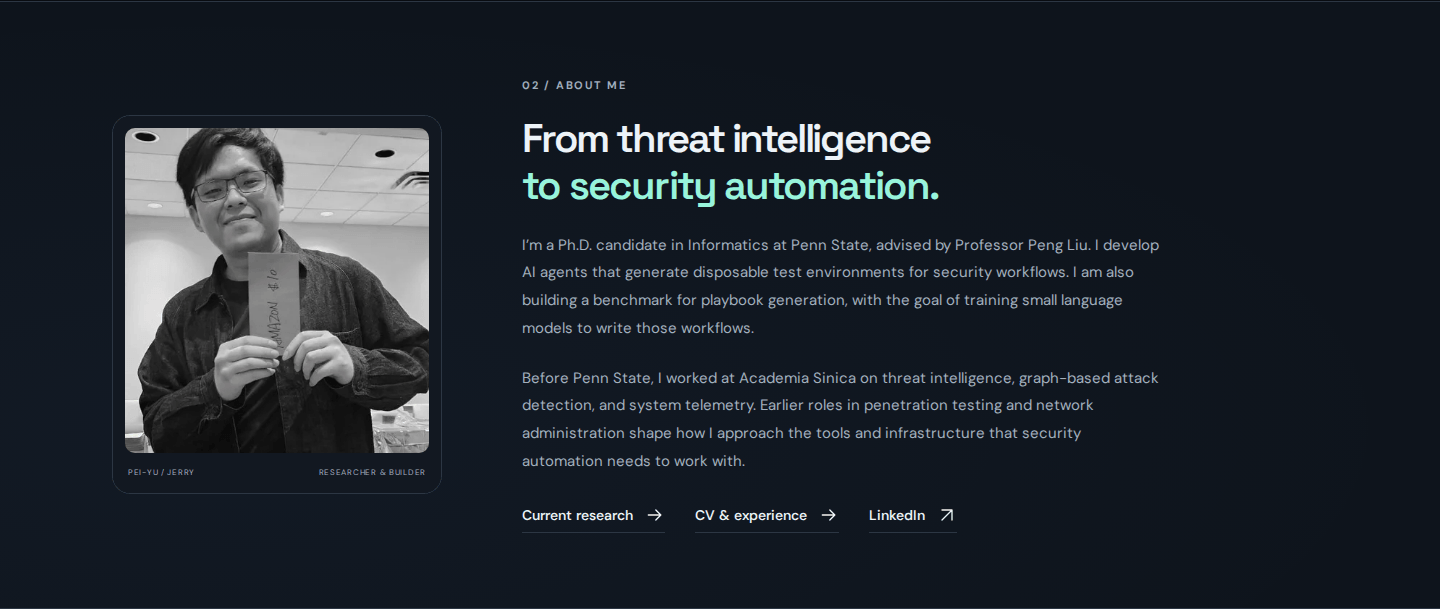
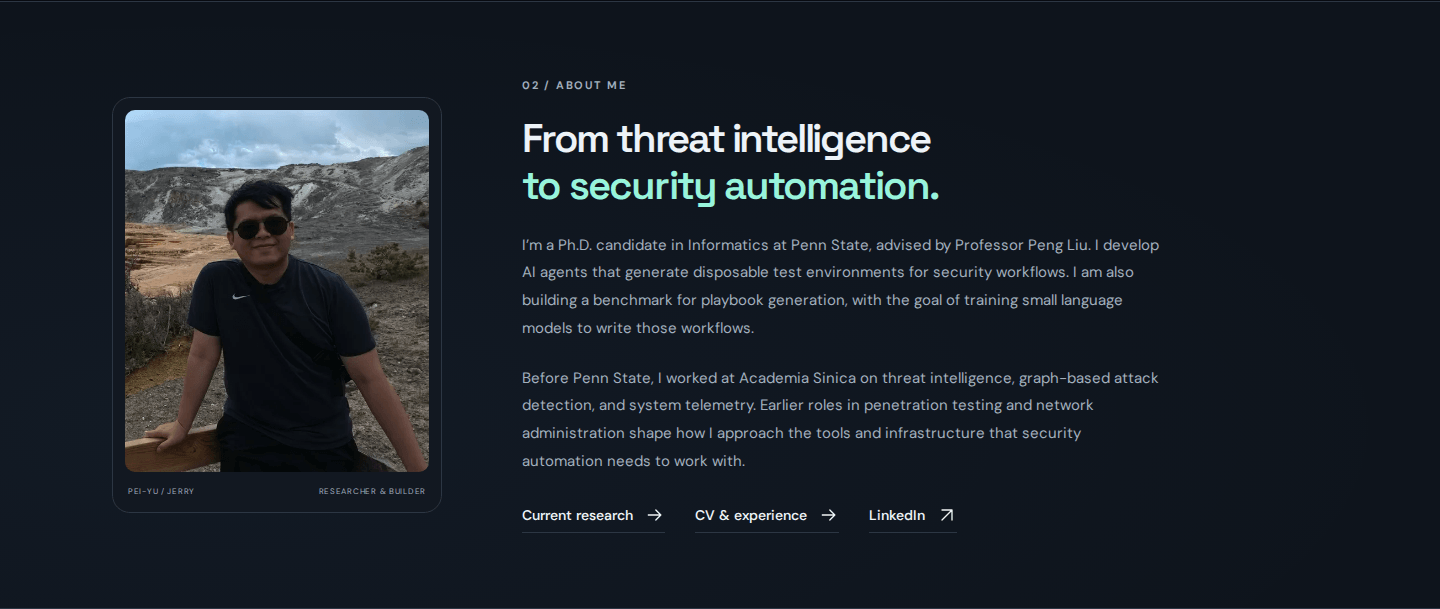
Use the new travel portrait with responsive framing

Changed region(s): [[0.0625, 0.156, 0.3125, 0.8112]]

diff --git a/site/src/styles/global.css b/site/src/styles/global.css
@@ -8,7 +8,7 @@
 /* Project illustrations */
 .project-art{height:220px;display:flex;align-items:center;justify-content:center;position:relative;overflow:hidden;border-bottom:1px solid var(--line);background-color:var(--art);background-image:radial-gradient(var(--line) .7px,transparent .7px);background-size:17px 17px}.art-caption{position:absolute;bottom:16px;left:22px;font-family:monospace;font-size:8px;letter-spacing:.2em;color:var(--muted)}.state-diagram{display:flex;align-items:center;gap:0}.mini-node{border:1px solid #52623e;background:var(--bg);font-family:monospace;font-size:9px;padding:15px 18px;letter-spacing:.12em}.mini-node span{font-family:'DM Sans Variable',sans-serif;display:block;font-size:12px;letter-spacing:0;color:var(--accent);margin-top:4px}.diagram-line{width:45px;height:1px;background:#52623e;position:relative}.diagram-line:after{content:'';width:5px;height:5px;border-top:1px solid #52623e;border-right:1px solid #52623e;position:absolute;right:0;top:-2px;transform:rotate(45deg)}.state-pair{display:flex;gap:12px;background:var(--bg);border:1px solid var(--line);padding:12px}.state-pair>span{color:var(--muted);font-size:9px;text-align:left;min-width:62px}.state-pair i{display:block;font-style:normal;font-family:monospace;font-size:10px;padding:5px 8px;margin-top:4px;background:var(--surface);color:var(--muted)}.state-pair>span:last-child i{color:var(--accent);border:1px solid color-mix(in srgb,var(--accent) 25%,transparent);padding:4px 7px}.art-workflow{background-color:#151e20}:root[data-theme=light] .art-workflow{background-color:#ddecef}.workflow-diagram{display:flex;align-items:center;gap:0;color:#a4ced6}.flow-dot{width:8px;height:8px;border-radius:50%;background:#82cbd7}.flow-line{height:1px;width:27px;background:#48606a}.flow-block{background:var(--bg);border:1px solid #48606a;padding:12px 20px;font-family:monospace;font-size:10px;border-radius:3px}.flow-diamond{width:52px;height:52px;transform:rotate(45deg);padding:0;display:grid;place-items:center;margin:10px}.flow-diamond span{transform:rotate(-45deg)}:root[data-theme=light] .workflow-diagram{color:#314f56}.art-regex{background-color:#201d16}:root[data-theme=light] .art-regex{background-color:#eeeadb}.regex-code{font-family:monospace;display:flex;flex-direction:column;gap:14px;color:#e1c990;font-size:26px}.regex-code .code-comment{font-size:10px;color:var(--muted)}.regex-code i{font-style:normal;color:var(--text)}.regex-code b{font-weight:400;color:#c9a475}.code-under{font-size:10px;color:var(--muted);letter-spacing:.015em}.code-under em{font-style:normal;margin:0 6px;color:#c9a475}:root[data-theme=light] .regex-code{color:#705824}.art-evaluation{background-color:#1c1925}:root[data-theme=light] .art-evaluation{background-color:#e9e2ef}.eval-diagram{display:flex;align-items:center;position:relative;height:120px;gap:150px}.eval-diagram>span{font-size:10px;font-family:monospace;color:var(--muted);position:relative;z-index:2}.eval-circle{position:absolute;border:1px solid #9e8dbc;width:116px;height:116px;border-radius:50%;top:0;background:repeating-linear-gradient(45deg,transparent,transparent 6px,#a78ac210 6px,#a78ac210 7px)}.circle-a{left:26px}.circle-b{right:26px;border-color:#72667e}
 /* About */
-.about-band{padding:75px 0;background:var(--surface-soft);border-block:1px solid var(--line)}.about-grid{display:grid;grid-template-columns:330px 1fr;gap:80px;align-items:center}.portrait-wrap{position:relative;background:var(--surface);border:1px solid var(--line);padding:12px}.portrait-wrap img{width:100%;height:325px;object-fit:cover;object-position:50% 38%}.portrait-caption{display:flex;justify-content:space-between;gap:8px;font-size:8px;letter-spacing:.09em;padding:13px 3px 2px;color:var(--muted)}.about-copy .eyebrow{color:var(--muted);margin-bottom:22px}.about-copy h2{font-size:40px;line-height:1.18}.about-copy p{font-size:15px;color:var(--muted);margin-top:22px;line-height:1.85;max-width:640px}.about-links{display:flex;gap:30px;margin-top:29px}
+.about-band{padding:75px 0;background:var(--surface-soft);border-block:1px solid var(--line)}.about-grid{display:grid;grid-template-columns:330px 1fr;gap:80px;align-items:center}.portrait-wrap{position:relative;background:var(--surface);border:1px solid var(--line);padding:12px}.portrait-frame{aspect-ratio:21/25;overflow:hidden}.portrait-wrap img{width:100%;height:100%;object-fit:cover;object-position:85% 100%;transform:scale(1.2);transform-origin:85% 100%}.portrait-caption{display:flex;justify-content:space-between;gap:8px;font-size:8px;letter-spacing:.09em;padding:13px 3px 2px;color:var(--muted)}.about-copy .eyebrow{color:var(--muted);margin-bottom:22px}.about-copy h2{font-size:40px;line-height:1.18}.about-copy p{font-size:15px;color:var(--muted);margin-top:22px;line-height:1.85;max-width:640px}.about-links{display:flex;gap:30px;margin-top:29px}
 /* Papers and experience */
 .publication{display:grid;grid-template-columns:80px 1fr;gap:24px;border-top:1px solid var(--line);padding:29px 0;scroll-margin-top:125px}.publication:last-child{border-bottom:1px solid var(--line)}.publication-year{font-family:'Space Grotesk Variable',sans-serif;font-size:15px;color:var(--muted);padding-top:1px}.publication-meta{display:flex;gap:14px;flex-wrap:wrap;align-items:center;color:var(--muted);font-size:10px;margin-bottom:10px;letter-spacing:.015em}.publication-type{border:1px solid var(--line);padding:1px 6px;border-radius:3px;font-size:8px;text-transform:uppercase;letter-spacing:.06em}.publication-type.preprint{color:var(--accent)}.publication h3{font-size:21px;letter-spacing:-.025em;line-height:1.45;font-weight:500}.publication h3 a{display:flex;justify-content:space-between;gap:24px}.publication h3 a:hover{color:var(--accent)}.publication h3 .arrow{margin-top:6px;width:18px;height:18px;color:var(--muted)}.authors{font-size:11px;color:var(--muted);margin-top:10px;line-height:1.7}.authors strong{color:var(--text);font-weight:500}.publication-summary{font-size:14px;color:var(--muted);margin-top:12px}.publication-body>.text-link{margin-top:14px}.experience-section{padding-top:8px}.experience-row{display:grid;grid-template-columns:160px 1fr auto;align-items:center;gap:24px;padding:26px 0;border-top:1px solid var(--line)}.experience-row:last-child{border-bottom:1px solid var(--line)}.experience-date,.experience-location{font-size:12px;color:var(--muted)}.experience-row h3{font-size:23px}.experience-row p{font-size:13px;color:var(--muted);margin-top:6px}
 /* Inner pages */
@@ -17,9 +17,9 @@
 .site-footer{padding-top:55px;padding-bottom:26px;border-top:1px solid var(--line)}.footer-top{display:flex;align-items:center;justify-content:space-between;gap:50px;padding-bottom:55px}.footer-top .eyebrow{color:var(--muted);font-size:9px;margin-bottom:20px}.footer-heading{display:block;position:relative;font-family:'Space Grotesk Variable',sans-serif;font-size:50px;letter-spacing:-.055em;line-height:1.08}.footer-heading .arrow{display:inline-block;width:36px;height:36px;margin-left:30px;color:var(--accent)}.footer-links{display:grid;grid-template-columns:1fr 1fr;gap:23px 42px}.footer-links a{display:flex;align-items:center;justify-content:space-between;gap:35px;font-size:12px}.footer-links a:hover{color:var(--accent)}.footer-links .arrow{width:13px;height:13px;color:var(--muted)}.footer-bottom{border-top:1px solid var(--line);padding-top:22px;display:flex;justify-content:space-between;gap:20px;font-size:9px;color:var(--muted)}.tiny-dot{display:inline-block;width:3px;height:3px;border-radius:50%;background:var(--muted);vertical-align:middle;margin:0 7px}
 /* Responsive and reduced-motion layouts */
 @media(min-width:1450px){.hero{min-height:760px}.hero h1{font-size:84px}}
-@media(max-width:1100px){.container{padding-inline:36px}.desktop-nav{gap:20px;margin-left:0}.header-actions{gap:15px}.hero{gap:10px;min-height:660px;padding-top:56px;padding-bottom:55px}.hero h1{font-size:65px}.hero-intro{font-size:15px}.hero-kicker{font-size:9px}.about-grid{grid-template-columns:280px 1fr;gap:45px}.about-copy h2{font-size:34px}.portrait-wrap img{height:300px}.project-card-content{padding:24px}.project-card h3{font-size:23px}.project-story{gap:45px}.cv-section{grid-template-columns:190px 1fr;gap:30px}}
-@media(max-width:800px){.container{padding-inline:25px}.header-inner{height:78px}.desktop-nav,.contact-nav{display:none}.menu-toggle{display:grid}.header-actions{gap:10px}.mobile-nav{display:flex;flex-direction:column;padding:10px 25px 20px;border-top:1px solid var(--line);background:var(--bg)}.mobile-nav a{padding:14px 0;font-size:16px;display:flex;align-items:center;justify-content:space-between}.hero{grid-template-columns:1fr;gap:35px;padding-top:53px;padding-bottom:37px}.hero-copy{max-width:580px}.hero h1{font-size:76px}.hero-intro{max-width:530px;font-size:16px}.hero-affiliation{margin-top:28px}.section{padding-top:64px;padding-bottom:64px}.section-header h2{font-size:36px}.section-header{gap:18px}.project-grid{gap:22px}.project-card-content{padding:20px}.project-card h3{font-size:21px}.project-card p{font-size:13px}.project-art{height:180px}.project-art>.state-diagram,.project-art>.workflow-diagram,.project-art>.eval-diagram,.project-art>.regex-code{transform:scale(.8)}.about-grid{grid-template-columns:220px 1fr;gap:30px}.portrait-wrap img{height:270px}.about-copy h2{font-size:28px}.about-copy p{font-size:13px;margin-top:16px}.portrait-caption{font-size:6px}.about-links{gap:20px}.text-link{font-size:12px}.publication{grid-template-columns:52px 1fr;gap:15px}.publication h3{font-size:19px}.experience-row{grid-template-columns:120px 1fr;gap:15px}.experience-location{display:none}.experience-section{padding-top:0}.page-heading{padding-top:58px;padding-bottom:48px}.page-heading h1{font-size:62px}.page-heading p{font-size:16px}.cv-section{grid-template-columns:1fr;gap:20px}.cv-heading{align-items:flex-start;flex-direction:column;gap:25px}.project-detail-heading h1{font-size:52px}.project-story{grid-template-columns:1fr;gap:26px;margin-top:42px}.project-story h2{max-width:540px}.footer-heading{font-size:40px}.footer-links{gap:18px 25px}.footer-links a{gap:15px}.footer-bottom{flex-wrap:wrap;row-gap:10px}}
-@media(max-width:540px){.container{padding-inline:22px}.wordmark{font-size:10px;gap:12px}.wordmark-sub{font-size:7px}.mark{font-size:34px;width:40px}.icon-button{width:36px;height:36px;padding:8px}.hero{padding-top:43px;gap:25px}.hero-kicker{font-size:8px;letter-spacing:.12em;margin-bottom:24px}.hero h1{font-size:59px;letter-spacing:-.075em}.hero h1 em{font-size:1.13em}.hero-intro{font-size:14px;margin-top:23px;line-height:1.8}.hero-actions{gap:22px;margin-top:26px}.button{font-size:12px;padding:14px 18px;gap:17px}.hero-affiliation{margin-top:28px}.section{padding-top:55px;padding-bottom:55px}.section-header{align-items:flex-start;flex-direction:column;margin-bottom:28px;gap:20px}.section-header h2{font-size:36px}.section-header .eyebrow{font-size:9px;margin-bottom:17px}.section-header>.text-link{margin-bottom:0}.project-grid{grid-template-columns:1fr;gap:23px}.project-art{height:210px}.project-art>.state-diagram,.project-art>.workflow-diagram,.project-art>.eval-diagram,.project-art>.regex-code{transform:scale(.95)}.project-card-content{padding:24px}.project-card h3{font-size:25px}.project-card p{font-size:14px}.tags span{font-size:9px}.about-band{padding:50px 0}.about-grid{grid-template-columns:1fr;gap:33px}.portrait-wrap{width:220px}.portrait-wrap img{height:245px}.portrait-caption{font-size:6px}.about-copy h2{font-size:33px}.about-copy p{font-size:14px;line-height:1.85}.about-copy .eyebrow{font-size:9px}.publication{grid-template-columns:1fr;gap:12px;padding:25px 0}.publication-year{font-size:12px}.publication h3{font-size:20px;line-height:1.4}.publication h3 a{gap:14px}.publication-meta{font-size:9px;gap:8px}.authors{font-size:10px}.experience-section{padding-top:0}.experience-row{grid-template-columns:1fr;gap:8px;padding:23px 0}.experience-row h3{font-size:24px}.experience-date{font-size:10px}.experience-row p{font-size:12px}.page-heading h1{font-size:51px}.page-heading p{font-size:14px}.page-heading .eyebrow{font-size:9px}.filter-bar{gap:8px;align-items:flex-start}.filter-button{font-size:10px;padding:8px 11px}.filter-count{width:100%;margin:5px 0 0;font-size:10px}.research-content,.publications-content{padding-bottom:60px}.cv-heading h1{font-size:51px}.cv-entry-top{flex-direction:column;gap:4px}.cv-entry-top>span{padding:0}.cv-entry h3{font-size:19px}.cv-section p{font-size:13px}.cv-publications .publication{grid-template-columns:1fr;gap:9px}.project-detail-heading h1{font-size:45px}.project-detail-heading>p{font-size:18px}.project-detail-heading .eyebrow{font-size:9px}.project-detail>.project-art{height:220px}.project-detail>.project-art .state-diagram,.project-detail>.project-art .workflow-diagram,.project-detail>.project-art .eval-diagram,.project-detail>.project-art .regex-code{transform:scale(.95)}.project-story h2{font-size:30px}.project-prose>p{font-size:14px}.project-prose li{font-size:14px}.next-project>span:last-child{font-size:25px}.footer-top{flex-direction:column;align-items:flex-start;gap:35px;padding-bottom:35px}.footer-heading{font-size:42px}.footer-heading .arrow{width:29px;height:29px;margin-left:18px}.footer-links{width:100%;gap:17px 35px}.footer-links a{font-size:12px}.footer-bottom{flex-direction:column;font-size:9px;gap:9px}.site-footer{padding-top:40px;padding-bottom:25px}}
+@media(max-width:1100px){.container{padding-inline:36px}.desktop-nav{gap:20px;margin-left:0}.header-actions{gap:15px}.hero{gap:10px;min-height:660px;padding-top:56px;padding-bottom:55px}.hero h1{font-size:65px}.hero-intro{font-size:15px}.hero-kicker{font-size:9px}.about-grid{grid-template-columns:280px 1fr;gap:45px}.about-copy h2{font-size:34px}.project-card-content{padding:24px}.project-card h3{font-size:23px}.project-story{gap:45px}.cv-section{grid-template-columns:190px 1fr;gap:30px}}
+@media(max-width:800px){.container{padding-inline:25px}.header-inner{height:78px}.desktop-nav,.contact-nav{display:none}.menu-toggle{display:grid}.header-actions{gap:10px}.mobile-nav{display:flex;flex-direction:column;padding:10px 25px 20px;border-top:1px solid var(--line);background:var(--bg)}.mobile-nav a{padding:14px 0;font-size:16px;display:flex;align-items:center;justify-content:space-between}.hero{grid-template-columns:1fr;gap:35px;padding-top:53px;padding-bottom:37px}.hero-copy{max-width:580px}.hero h1{font-size:76px}.hero-intro{max-width:530px;font-size:16px}.hero-affiliation{margin-top:28px}.section{padding-top:64px;padding-bottom:64px}.section-header h2{font-size:36px}.section-header{gap:18px}.project-grid{gap:22px}.project-card-content{padding:20px}.project-card h3{font-size:21px}.project-card p{font-size:13px}.project-art{height:180px}.project-art>.state-diagram,.project-art>.workflow-diagram,.project-art>.eval-diagram,.project-art>.regex-code{transform:scale(.8)}.about-grid{grid-template-columns:220px 1fr;gap:30px}.about-copy h2{font-size:28px}.about-copy p{font-size:13px;margin-top:16px}.portrait-caption{font-size:6px}.about-links{gap:20px}.text-link{font-size:12px}.publication{grid-template-columns:52px 1fr;gap:15px}.publication h3{font-size:19px}.experience-row{grid-template-columns:120px 1fr;gap:15px}.experience-location{display:none}.experience-section{padding-top:0}.page-heading{padding-top:58px;padding-bottom:48px}.page-heading h1{font-size:62px}.page-heading p{font-size:16px}.cv-section{grid-template-columns:1fr;gap:20px}.cv-heading{align-items:flex-start;flex-direction:column;gap:25px}.project-detail-heading h1{font-size:52px}.project-story{grid-template-columns:1fr;gap:26px;margin-top:42px}.project-story h2{max-width:540px}.footer-heading{font-size:40px}.footer-links{gap:18px 25px}.footer-links a{gap:15px}.footer-bottom{flex-wrap:wrap;row-gap:10px}}
+@media(max-width:540px){.container{padding-inline:22px}.wordmark{font-size:10px;gap:12px}.wordmark-sub{font-size:7px}.mark{font-size:34px;width:40px}.icon-button{width:36px;height:36px;padding:8px}.hero{padding-top:43px;gap:25px}.hero-kicker{font-size:8px;letter-spacing:.12em;margin-bottom:24px}.hero h1{font-size:59px;letter-spacing:-.075em}.hero h1 em{font-size:1.13em}.hero-intro{font-size:14px;margin-top:23px;line-height:1.8}.hero-actions{gap:22px;margin-top:26px}.button{font-size:12px;padding:14px 18px;gap:17px}.hero-affiliation{margin-top:28px}.section{padding-top:55px;padding-bottom:55px}.section-header{align-items:flex-start;flex-direction:column;margin-bottom:28px;gap:20px}.section-header h2{font-size:36px}.section-header .eyebrow{font-size:9px;margin-bottom:17px}.section-header>.text-link{margin-bottom:0}.project-grid{grid-template-columns:1fr;gap:23px}.project-art{height:210px}.project-art>.state-diagram,.project-art>.workflow-diagram,.project-art>.eval-diagram,.project-art>.regex-code{transform:scale(.95)}.project-card-content{padding:24px}.project-card h3{font-size:25px}.project-card p{font-size:14px}.tags span{font-size:9px}.about-band{padding:50px 0}.about-grid{grid-template-columns:1fr;gap:33px}.portrait-wrap{width:220px}.portrait-caption{font-size:6px}.about-copy h2{font-size:33px}.about-copy p{font-size:14px;line-height:1.85}.about-copy .eyebrow{font-size:9px}.publication{grid-template-columns:1fr;gap:12px;padding:25px 0}.publication-year{font-size:12px}.publication h3{font-size:20px;line-height:1.4}.publication h3 a{gap:14px}.publication-meta{font-size:9px;gap:8px}.authors{font-size:10px}.experience-section{padding-top:0}.experience-row{grid-template-columns:1fr;gap:8px;padding:23px 0}.experience-row h3{font-size:24px}.experience-date{font-size:10px}.experience-row p{font-size:12px}.page-heading h1{font-size:51px}.page-heading p{font-size:14px}.page-heading .eyebrow{font-size:9px}.filter-bar{gap:8px;align-items:flex-start}.filter-button{font-size:10px;padding:8px 11px}.filter-count{width:100%;margin:5px 0 0;font-size:10px}.research-content,.publications-content{padding-bottom:60px}.cv-heading h1{font-size:51px}.cv-entry-top{flex-direction:column;gap:4px}.cv-entry-top>span{padding:0}.cv-entry h3{font-size:19px}.cv-section p{font-size:13px}.cv-publications .publication{grid-template-columns:1fr;gap:9px}.project-detail-heading h1{font-size:45px}.project-detail-heading>p{font-size:18px}.project-detail-heading .eyebrow{font-size:9px}.project-detail>.project-art{height:220px}.project-detail>.project-art .state-diagram,.project-detail>.project-art .workflow-diagram,.project-detail>.project-art .eval-diagram,.project-detail>.project-art .regex-code{transform:scale(.95)}.project-story h2{font-size:30px}.project-prose>p{font-size:14px}.project-prose li{font-size:14px}.next-project>span:last-child{font-size:25px}.footer-top{flex-direction:column;align-items:flex-start;gap:35px;padding-bottom:35px}.footer-heading{font-size:42px}.footer-heading .arrow{width:29px;height:29px;margin-left:18px}.footer-links{width:100%;gap:17px 35px}.footer-links a{font-size:12px}.footer-bottom{flex-direction:column;font-size:9px;gap:9px}.site-footer{padding-top:40px;padding-bottom:25px}}
 @media(max-width:360px){.hero h1{font-size:52px}.hero-kicker{font-size:7px}.hero-actions{gap:15px}.button{padding:13px 14px}.project-card h3{font-size:22px}.project-art>.state-diagram,.project-art>.workflow-diagram{transform:scale(.83)}}
 @media(prefers-reduced-motion:reduce){:root{scroll-behavior:auto}*,*:before,*:after{animation:none!important;transition:none!important}.project-card:hover,.button:hover{transform:none}a:hover .arrow{transform:none}}
 @media print{:root,:root[data-theme=light]{--bg:#fff;--text:#171717;--muted:#444;--line:#ddd;--accent:#222;color-scheme:light}body{font-size:10pt;background:white;color:#171717}.site-header,.site-footer,.print-cv,.skip-link{display:none!important}.container{max-width:none;padding:0}.page-heading{padding:0 0 20px}.page-heading h1{font-size:34px}.page-heading p{font-size:11px;margin-top:10px}.page-heading .eyebrow{font-size:9px;margin-bottom:10px}.cv-heading{display:block}.print-contact{display:block;font-size:10px;margin-top:12px}.cv-content{padding:0}.cv-section{display:block;padding:18px 0;break-inside:auto}.cv-section>h2{font-size:16px;margin-bottom:12px}.cv-entry{break-inside:avoid}.cv-entry+.cv-entry{margin-top:14px}.cv-entry h3{font-size:13px}.cv-entry-top{flex-direction:row}.cv-section p{font-size:10px;line-height:1.5}.cv-entry-top>span{font-size:9px}.skill-group+.skill-group{margin-top:12px}.skill-group h3{font-size:12px}.publication{break-inside:avoid;padding:13px 0}.cv-publications .publication{grid-template-columns:35px 1fr;gap:12px}.cv-publications .publication h3{font-size:11px}.publication-year{font-size:10px}.cv-publications p.authors{font-size:9px}.publication-meta{font-size:8px}.publication .arrow{display:none}a{color:inherit}.publication-type{font-size:7px}@page{size:A4;margin:17mm}}

diff --git a/site/src/styles/tech.css b/site/src/styles/tech.css
@@ -28,7 +28,7 @@
   .art-evaluation { background-color: #171624; }
   .project-detail>.project-art { border-radius: 18px; }
   .portrait-wrap { border-radius: 18px; }
-  .portrait-wrap img { border-radius: 10px; }
+  .portrait-frame { border-radius: 10px; }
   .about-band { background: radial-gradient(ellipse at 15% 70%, #719fe70b, transparent 70%), var(--surface-soft); }
   .page-heading h1, .project-detail-heading h1 { letter-spacing: -.06em; }
   .site-footer { background: radial-gradient(ellipse at 50% 100%, #98f4db08, transparent 70%); }
